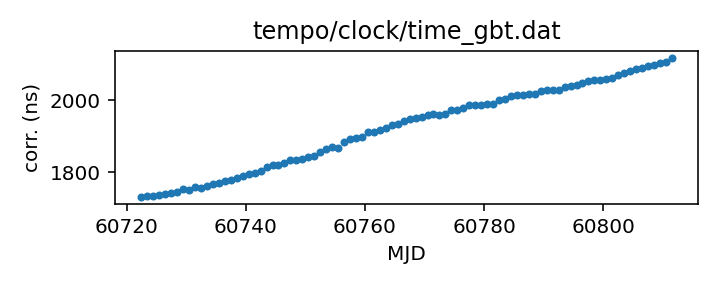
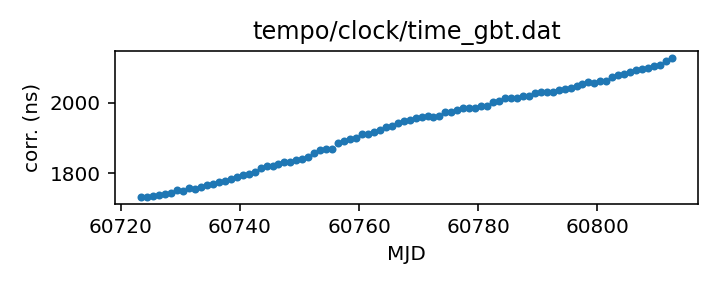
Routine gh-pages update from Github action Sun May 18 20:39:43 UTC 2025

diff --git a/status.md b/status.md
@@ -13,18 +13,18 @@ name of each clock file links to a page with more details.
 
 | Name | File | Corrections start | Corrections end | Last check date | Last check result 
 |:--- |:--- | --- | --- | --- |:--- 
-| [GPS to UTC](T2runtime/clock/gps2utc.clk.html) | `T2runtime/clock/gps2utc.clk` | 1993-01-01 MJD 48988.0 | 2025-04-29 MJD 60794.0 | 2025-05-17 | Unchanged 
-| [GPS to UTC (Combined Clock)](T2runtime/clock/gps2utc_cc.clk.html) | `T2runtime/clock/gps2utc_cc.clk` | 1993-01-01 MJD 48988.0 | 2025-04-29 MJD 60794.0 | 2025-05-17 | Unchanged 
-| [GPS to UTC (Corrected)](T2runtime/clock/gps2utc_c0p.clk.html) | `T2runtime/clock/gps2utc_c0p.clk` | 2010-12-29 MJD 55559.0 | 2025-04-29 MJD 60794.0 | 2025-05-17 | Unchanged 
-| [GBT](tempo/clock/time_gbt.dat.html) | `tempo/clock/time_gbt.dat` | 2000-12-31 MJD 51909.5 | 2025-05-16 MJD 60811.5 | 2025-05-17 | Updated 
-| [GBT (TEMPO2 converted from TEMPO)](T2runtime/clock/gbt2gps.clk.html) | `T2runtime/clock/gbt2gps.clk` | 2000-12-31 MJD 51909.5 | 2024-05-18 MJD 60448.5 | 2025-05-17 | **Validation failed** 
+| [GPS to UTC](T2runtime/clock/gps2utc.clk.html) | `T2runtime/clock/gps2utc.clk` | 1993-01-01 MJD 48988.0 | 2025-04-29 MJD 60794.0 | 2025-05-18 | Unchanged 
+| [GPS to UTC (Combined Clock)](T2runtime/clock/gps2utc_cc.clk.html) | `T2runtime/clock/gps2utc_cc.clk` | 1993-01-01 MJD 48988.0 | 2025-04-29 MJD 60794.0 | 2025-05-18 | Unchanged 
+| [GPS to UTC (Corrected)](T2runtime/clock/gps2utc_c0p.clk.html) | `T2runtime/clock/gps2utc_c0p.clk` | 2010-12-29 MJD 55559.0 | 2025-04-29 MJD 60794.0 | 2025-05-18 | Unchanged 
+| [GBT](tempo/clock/time_gbt.dat.html) | `tempo/clock/time_gbt.dat` | 2000-12-31 MJD 51909.5 | 2025-05-17 MJD 60812.5 | 2025-05-18 | Updated 
+| [GBT (TEMPO2 converted from TEMPO)](T2runtime/clock/gbt2gps.clk.html) | `T2runtime/clock/gbt2gps.clk` | 2000-12-31 MJD 51909.5 | 2024-05-18 MJD 60448.5 | 2025-05-18 | **Validation failed** 
 | [Jodrell Bank](T2runtime/clock/jb2gps.clk.html) | `T2runtime/clock/jb2gps.clk` | 2006-10-13 MJD 54021.4 | 2024-11-07 MJD 60621.0 | 2025-05-12 | Unchanged 
 | [Jodrell Bank Roach](T2runtime/clock/jbroach2jb.clk.html) | `T2runtime/clock/jbroach2jb.clk` | 2006-10-13 MJD 54021.4 | 2018-03-20 MJD 58197.6 | 2025-05-12 | Unchanged 
 | [Jodrell Bank DFB](T2runtime/clock/jbdfb2jb.clk.html) | `T2runtime/clock/jbdfb2jb.clk` | 2006-10-13 MJD 54021.4 | 2021-02-22 MJD 59268.0 | 2025-05-12 | Unchanged 
 | [Meerkat (observatory)](T2runtime/clock/mk2utc_observatory.clk.html) | `T2runtime/clock/mk2utc_observatory.clk` | 2019-01-01 MJD 58484.0 | 2025-04-30 MJD 60796.0 | 2025-05-12 | Updated 
-| [Leap seconds](tempo/clock/leap.sec.html) | `tempo/clock/leap.sec` | 1972-07-01 MJD 41499.0 | 2017-01-01 MJD 57754.0 | 2025-05-17 | Unchanged 
-| [UT1 table](tempo/clock/ut1.dat.html) | `tempo/clock/ut1.dat` | 1973-01-02 MJD 41684.0 | 2026-05-23 MJD 61183.0 | 2025-05-17 | Unchanged 
-| [UT1 table](T2runtime/clock/ut1.dat.html) | `T2runtime/clock/ut1.dat` | 1973-01-02 MJD 41684.0 | 2026-05-23 MJD 61183.0 | 2025-05-17 | Unchanged 
+| [Leap seconds](tempo/clock/leap.sec.html) | `tempo/clock/leap.sec` | 1972-07-01 MJD 41499.0 | 2017-01-01 MJD 57754.0 | 2025-05-18 | Unchanged 
+| [UT1 table](tempo/clock/ut1.dat.html) | `tempo/clock/ut1.dat` | 1973-01-02 MJD 41684.0 | 2026-05-23 MJD 61183.0 | 2025-05-18 | Unchanged 
+| [UT1 table](T2runtime/clock/ut1.dat.html) | `T2runtime/clock/ut1.dat` | 1973-01-02 MJD 41684.0 | 2026-05-23 MJD 61183.0 | 2025-05-18 | Unchanged 
 
 
 

diff --git a/T2runtime/clock/gbt2gps.clk.md b/T2runtime/clock/gbt2gps.clk.md
@@ -25,12 +25,11 @@ If questions arise about the conversion, contact Anne Archibald
 | Clock file start | 2000-12-31 MJD 51909.5 |
 | Clock file end | 2024-05-18 MJD 60448.5 |
 | Update interval (days) | 1 |
-| Last update attempt | 2025-05-17 |
+| Last update attempt | 2025-05-18 |
 | Last update result | Validation failed |
 
 Log entries from the last few update attempts:
 ```
-2025-05-08 20:42:41.728 - Validation failed: New version of T2runtime/clock/gbt2gps.clk clock corrections differ from old version where they overlap in 11 places
 2025-05-09 20:41:35.620 - Validation failed: New version of T2runtime/clock/gbt2gps.clk clock corrections differ from old version where they overlap in 11 places
 2025-05-10 20:37:57.337 - Validation failed: New version of T2runtime/clock/gbt2gps.clk clock corrections differ from old version where they overlap in 11 places
 2025-05-11 20:38:19.050 - Validation failed: New version of T2runtime/clock/gbt2gps.clk clock corrections differ from old version where they overlap in 11 places
@@ -40,6 +39,7 @@ Log entries from the last few update attempts:
 2025-05-15 20:42:46.941 - Validation failed: New version of T2runtime/clock/gbt2gps.clk clock corrections differ from old version where they overlap in 11 places
 2025-05-16 20:41:05.799 - Validation failed: New version of T2runtime/clock/gbt2gps.clk clock corrections differ from old version where they overlap in 11 places
 2025-05-17 20:39:06.922 - Validation failed: New version of T2runtime/clock/gbt2gps.clk clock corrections differ from old version where they overlap in 11 places
+2025-05-18 20:39:17.300 - Validation failed: New version of T2runtime/clock/gbt2gps.clk clock corrections differ from old version where they overlap in 11 places
 ```
 [Full log](https://raw.githubusercontent.com/ipta/pulsar-clock-corrections/main/log/T2runtime/clock/gbt2gps.clk.log)
 

diff --git a/tempo/clock/time_gbt.dat.md b/tempo/clock/time_gbt.dat.md
@@ -36,14 +36,13 @@ If questions arise, contact Ryan S. Lynch <rlynch@nrao.edu>.
 | Format | tempo |
 | Bogus last correction | False |
 | Clock file start | 2000-12-31 MJD 51909.5 |
-| Clock file end | 2025-05-16 MJD 60811.5 |
+| Clock file end | 2025-05-17 MJD 60812.5 |
 | Update interval (days) | 1 |
-| Last update attempt | 2025-05-17 |
+| Last update attempt | 2025-05-18 |
 | Last update result | Updated |
 
 Log entries from the last few update attempts:
 ```
-2025-05-08 20:42:41.675 - Updated
 2025-05-09 20:41:35.566 - Updated
 2025-05-10 20:37:57.284 - Updated
 2025-05-11 20:38:18.996 - Updated
@@ -53,6 +52,7 @@ Log entries from the last few update attempts:
 2025-05-15 20:42:46.888 - Updated
 2025-05-16 20:41:05.746 - Updated
 2025-05-17 20:39:06.868 - Updated
+2025-05-18 20:39:17.245 - Updated
 ```
 [Full log](https://raw.githubusercontent.com/ipta/pulsar-clock-corrections/main/log/tempo/clock/time_gbt.dat.log)
 

diff --git a/T2runtime/clock/gps2utc_c0p.clk.md b/T2runtime/clock/gps2utc_c0p.clk.md
@@ -30,12 +30,11 @@ about the BIPM's published corrections, contact <tai@bipm.org>.
 | Clock file start | 2010-12-29 MJD 55559.0 |
 | Clock file end | 2025-04-29 MJD 60794.0 |
 | Update interval (days) | 1 |
-| Last update attempt | 2025-05-17 |
+| Last update attempt | 2025-05-18 |
 | Last update result | Unchanged |
 
 Log entries from the last few update attempts:
 ```
-2025-05-08 20:42:41.267 - Unchanged
 2025-05-09 20:41:35.212 - Unchanged
 2025-05-10 20:37:53.239 - Unchanged
 2025-05-11 20:38:18.421 - Unchanged
@@ -45,6 +44,7 @@ Log entries from the last few update attempts:
 2025-05-15 20:42:46.095 - Unchanged
 2025-05-16 20:41:05.464 - Unchanged
 2025-05-17 20:39:05.861 - Unchanged
+2025-05-18 20:39:15.337 - Unchanged
 ```
 [Full log](https://raw.githubusercontent.com/ipta/pulsar-clock-corrections/main/log/T2runtime/clock/gps2utc_c0p.clk.log)
 

diff --git a/T2runtime/clock/gps2utc_cc.clk.md b/T2runtime/clock/gps2utc_cc.clk.md
@@ -29,12 +29,11 @@ about the BIPM's published corrections, contact <tai@bipm.org>.
 | Clock file start | 1993-01-01 MJD 48988.0 |
 | Clock file end | 2025-04-29 MJD 60794.0 |
 | Update interval (days) | 1 |
-| Last update attempt | 2025-05-17 |
+| Last update attempt | 2025-05-18 |
 | Last update result | Unchanged |
 
 Log entries from the last few update attempts:
 ```
-2025-05-08 20:42:41.259 - Unchanged
 2025-05-09 20:41:35.204 - Unchanged
 2025-05-10 20:37:53.231 - Unchanged
 2025-05-11 20:38:18.413 - Unchanged
@@ -44,6 +43,7 @@ Log entries from the last few update attempts:
 2025-05-15 20:42:46.087 - Unchanged
 2025-05-16 20:41:05.456 - Unchanged
 2025-05-17 20:39:05.853 - Unchanged
+2025-05-18 20:39:15.329 - Unchanged
 ```
 [Full log](https://raw.githubusercontent.com/ipta/pulsar-clock-corrections/main/log/T2runtime/clock/gps2utc_cc.clk.log)
 

diff --git a/T2runtime/clock/gps2utc.clk.md b/T2runtime/clock/gps2utc.clk.md
@@ -32,12 +32,11 @@ about the BIPM's published corrections, contact <tai@bipm.org>.
 | Clock file start | 1993-01-01 MJD 48988.0 |
 | Clock file end | 2025-04-29 MJD 60794.0 |
 | Update interval (days) | 1 |
-| Last update attempt | 2025-05-17 |
+| Last update attempt | 2025-05-18 |
 | Last update result | Unchanged |
 
 Log entries from the last few update attempts:
 ```
-2025-05-08 20:42:41.237 - Unchanged
 2025-05-09 20:41:35.182 - Unchanged
 2025-05-10 20:37:53.208 - Unchanged
 2025-05-11 20:38:18.391 - Unchanged
@@ -47,6 +46,7 @@ Log entries from the last few update attempts:
 2025-05-15 20:42:46.065 - Unchanged
 2025-05-16 20:41:05.433 - Unchanged
 2025-05-17 20:39:05.831 - Unchanged
+2025-05-18 20:39:15.306 - Unchanged
 ```
 [Full log](https://raw.githubusercontent.com/ipta/pulsar-clock-corrections/main/log/T2runtime/clock/gps2utc.clk.log)
 

diff --git a/tempo/clock/leap.sec.md b/tempo/clock/leap.sec.md
@@ -21,12 +21,11 @@ If there are any questions, contact Anne Archibald
 | File start | 1972-07-01 MJD 41499.0 |
 | File end | 2017-01-01 MJD 57754.0 |
 | Update interval (days) | 0 |
-| Last update attempt | 2025-05-17 |
+| Last update attempt | 2025-05-18 |
 | Last update result | Unchanged |
 
 Log entries from the last few update attempts:
 ```
-2025-05-08 20:42:41.754 - Unchanged
 2025-05-09 20:41:35.646 - Unchanged
 2025-05-10 20:37:57.363 - Unchanged
 2025-05-11 20:38:19.075 - Unchanged
@@ -36,5 +35,6 @@ Log entries from the last few update attempts:
 2025-05-15 20:42:46.967 - Unchanged
 2025-05-16 20:41:05.825 - Unchanged
 2025-05-17 20:39:06.947 - Unchanged
+2025-05-18 20:39:17.326 - Unchanged
 ```
 [Full log](https://raw.githubusercontent.com/ipta/pulsar-clock-corrections/main/log/tempo/clock/leap.sec.log)

diff --git a/T2runtime/clock/ut1.dat.md b/T2runtime/clock/ut1.dat.md
@@ -30,12 +30,11 @@ If there are any questions, contact Anne Archibald
 | File start | 1973-01-02 MJD 41684.0 |
 | File end | 2026-05-23 MJD 61183.0 |
 | Update interval (days) | 0 |
-| Last update attempt | 2025-05-17 |
+| Last update attempt | 2025-05-18 |
 | Last update result | Unchanged |
 
 Log entries from the last few update attempts:
 ```
-2025-05-08 20:42:50.063 - Updated
 2025-05-09 20:41:45.355 - Unchanged
 2025-05-10 20:38:06.214 - Unchanged
 2025-05-11 20:38:28.029 - Unchanged
@@ -45,5 +44,6 @@ Log entries from the last few update attempts:
 2025-05-15 20:43:00.537 - Updated
 2025-05-16 20:41:14.726 - Unchanged
 2025-05-17 20:39:19.825 - Unchanged
+2025-05-18 20:39:27.594 - Unchanged
 ```
 [Full log](https://raw.githubusercontent.com/ipta/pulsar-clock-corrections/main/log/T2runtime/clock/ut1.dat.log)

diff --git a/tempo/clock/ut1.dat.md b/tempo/clock/ut1.dat.md
@@ -30,12 +30,11 @@ If there are any questions, contact Anne Archibald
 | File start | 1973-01-02 MJD 41684.0 |
 | File end | 2026-05-23 MJD 61183.0 |
 | Update interval (days) | 0 |
-| Last update attempt | 2025-05-17 |
+| Last update attempt | 2025-05-18 |
 | Last update result | Unchanged |
 
 Log entries from the last few update attempts:
 ```
-2025-05-08 20:42:50.013 - Updated
 2025-05-09 20:41:45.304 - Unchanged
 2025-05-10 20:38:06.165 - Unchanged
 2025-05-11 20:38:27.979 - Unchanged
@@ -45,5 +44,6 @@ Log entries from the last few update attempts:
 2025-05-15 20:43:00.486 - Updated
 2025-05-16 20:41:14.675 - Unchanged
 2025-05-17 20:39:19.775 - Unchanged
+2025-05-18 20:39:27.542 - Unchanged
 ```
 [Full log](https://raw.githubusercontent.com/ipta/pulsar-clock-corrections/main/log/tempo/clock/ut1.dat.log)
